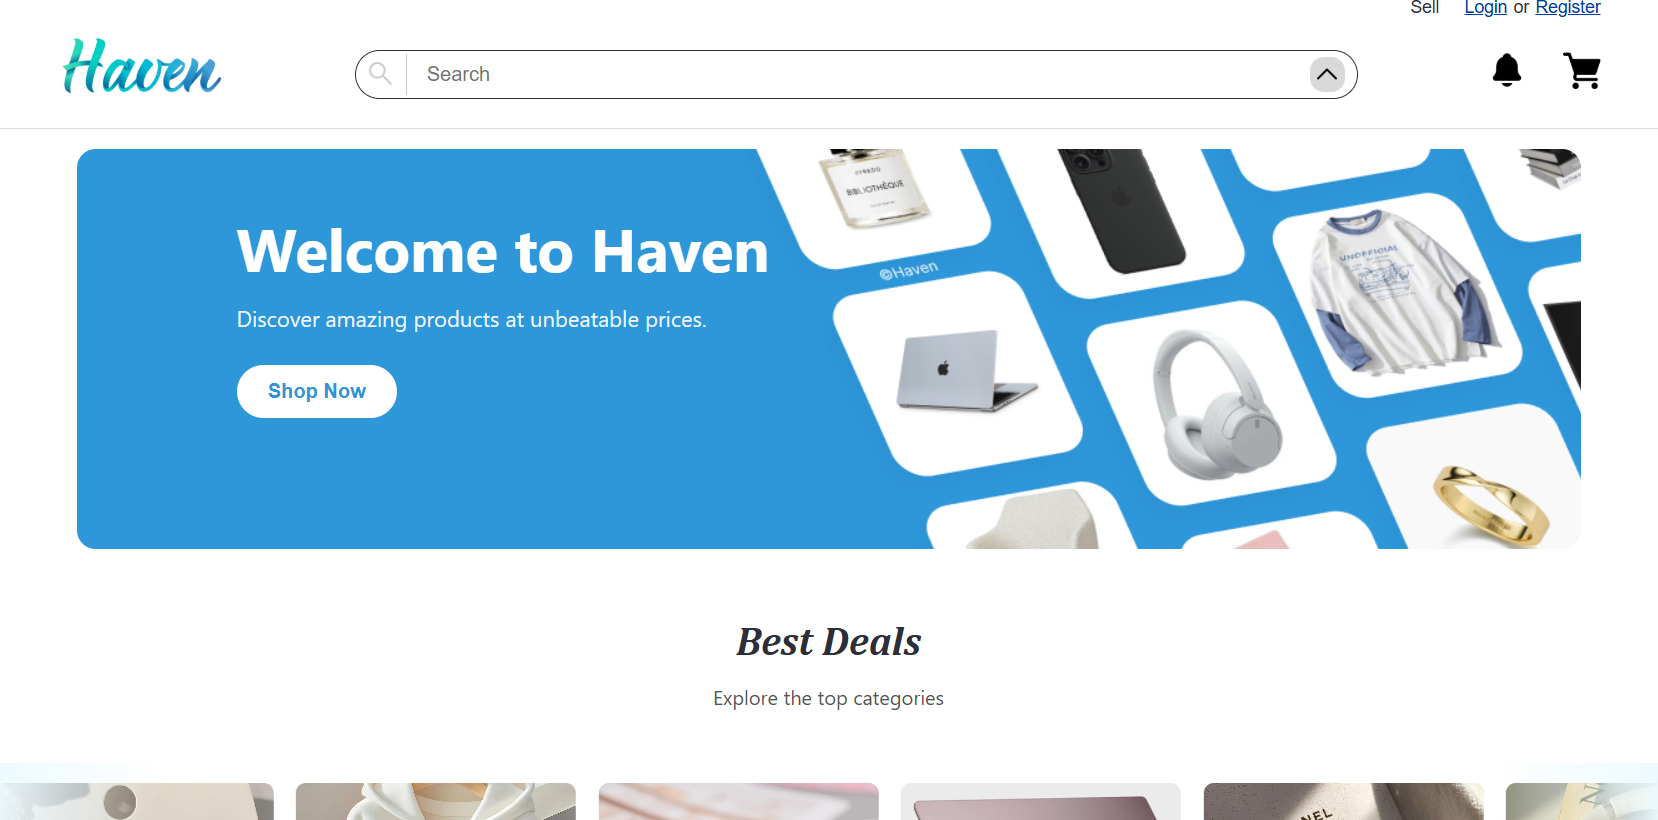
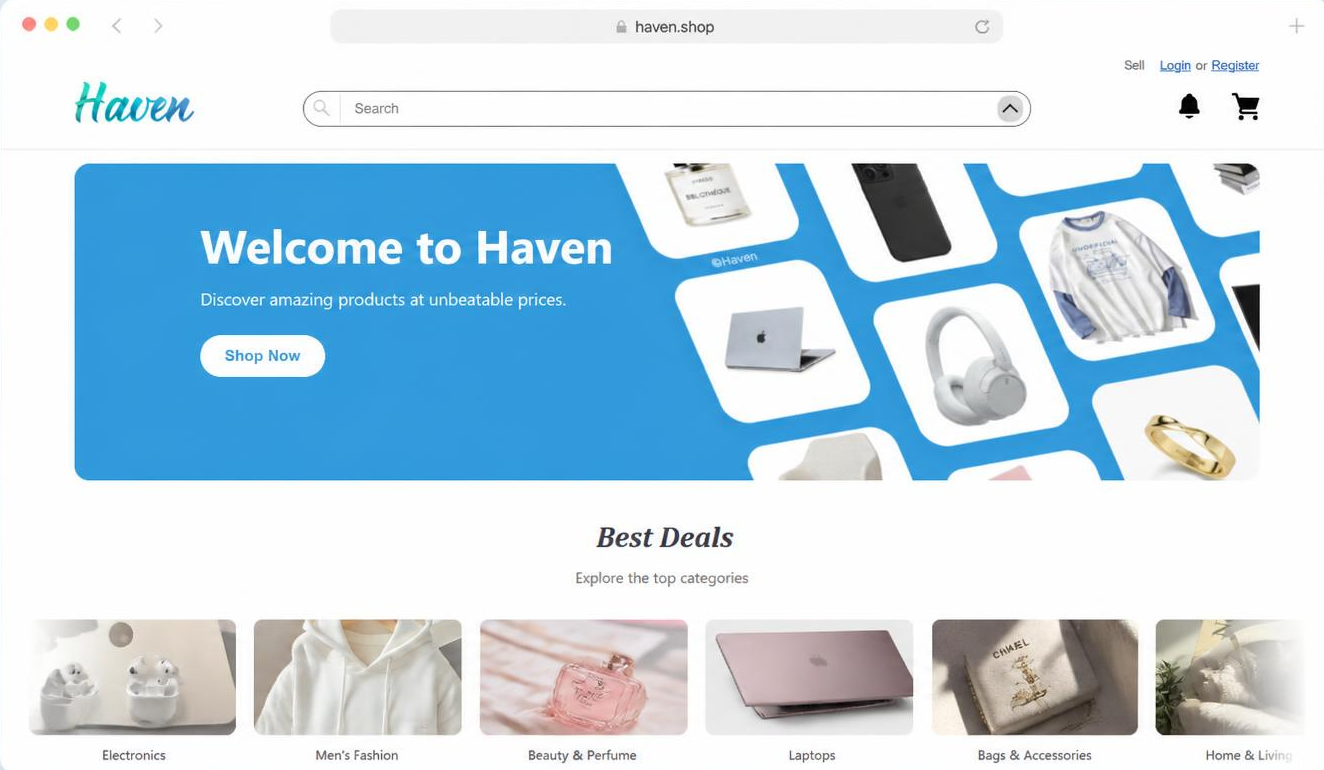
feat: add images for Haven, JavaScript Mini Programs, and Xiangtan Xuge projects

diff --git a/src/data/projects.ts b/src/data/projects.ts
@@ -1,3 +1,7 @@
+import havenImg from '../assets/haven.png';
+import jmpImg from '../assets/javascript-mini-programs.png';
+import xiangtanImg from '../assets/xinagtan-xuge.png';
+
 export interface Project {
     id: string;
     title: string;
@@ -42,7 +46,7 @@ export const projectsData: Project[] = [
         challenge: 'The main challenge was designing a professional online presence for an overseas B2B company whose products span several different industries. The website needed to present a large and diverse product range clearly while building trust with international customers and making it easy for potential buyers to enquire about products.',
         solution: 'Created a structured and responsive corporate website with dedicated product categories, company information, business strengths, and contact sections. Products are presented as a catalogue for customers to browse, while prominent contact options allow interested buyers to directly reach the company and proceed with their purchase enquiries.',
         features: ['Product catalogue', 'Company profile', 'International customer focus', 'Direct contact and enquiry options', 'Responsive design'],
-        image: '',
+        image: xiangtanImg,
         githubLink: '',
         liveLink: 'https://xiangtanxugecommerce.com/',
     }, {
@@ -56,7 +60,7 @@ export const projectsData: Project[] = [
         challenge: 'The main challenge was implementing several different types of interactive applications while maintaining consistent behaviour and a responsive interface. Each mini-project required different JavaScript concepts, including event handling, timers, random number generation, input validation, dynamic DOM updates, and external API communication.',
         solution: 'Built each mini-program as an independent interactive module using vanilla JavaScript, with reusable HTML and CSS patterns across the collection. JavaScript event listeners and DOM manipulation were used for user interactions, while Fetch API was used to retrieve real-time weather data from the OpenWeather API. Responsive layouts were implemented to ensure the applications remained usable across different screen sizes.',
         features: ['Counter', 'Number Guessing Game', 'Dice Roller', 'Temperature Converter', 'Digital Clock', 'Stopwatch', 'Calculator', 'Rock Paper Scissors', 'Real-time Weather App'],
-        image: '',
+        image: jmpImg,
         githubLink: 'https://github.com/Gladiolus-bat/Mini-Programs',
         liveLink: 'https://gladiolus-bat.github.io/Mini-Programs/',
     }, {
@@ -70,7 +74,7 @@ export const projectsData: Project[] = [
         challenge: 'Building a multi-page marketplace with vanilla JavaScript required coordinating navigation, shared layouts, product interactions, forms, and responsive design across multiple pages. An additional challenge was integrating external team websites into the platform while maintaining a seamless experience and making the different projects feel like part of one interconnected web ecosystem.',
         solution: 'Structured Haven into interconnected HTML pages with shared CSS and JavaScript functionality. Implemented product browsing, filtering, cart interactions, client-side form validation, and responsive layouts. External links to participating teams’ websites were incorporated into the platform, allowing users to move between different projects and demonstrating the interconnected "Mini Internet" concept.',
         features: ['Multi-page e-commerce interface', 'Category-based browsing', 'Shopping cart', 'Payment Interface', 'Interactive JavaScript features', 'Interconnected Mini Internet ecosystem'],
-        image: '',
+        image: havenImg,
         githubLink: 'https://github.com/Gladiolus-bat/Haven',
         liveLink: 'https://gladiolus-bat.github.io/Haven/',
     }, {
